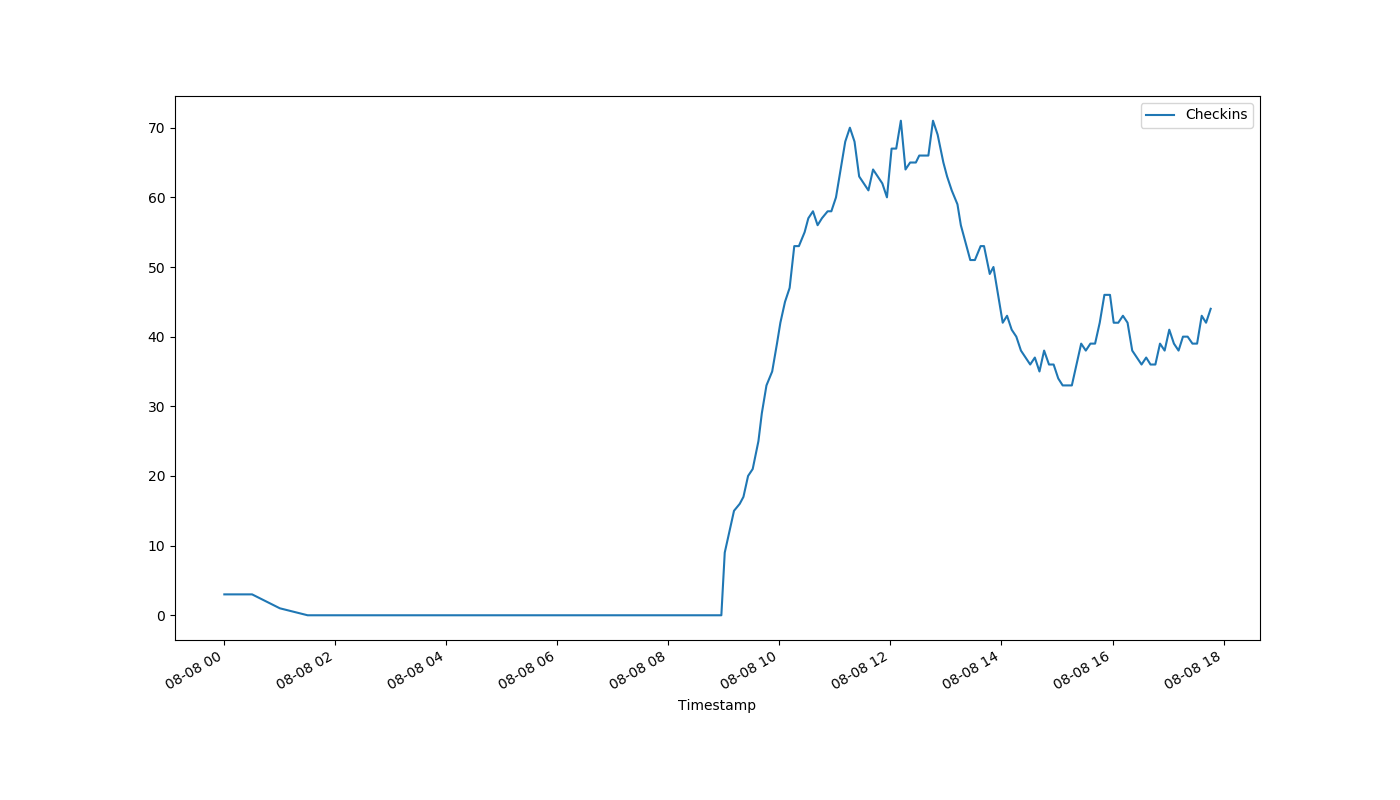
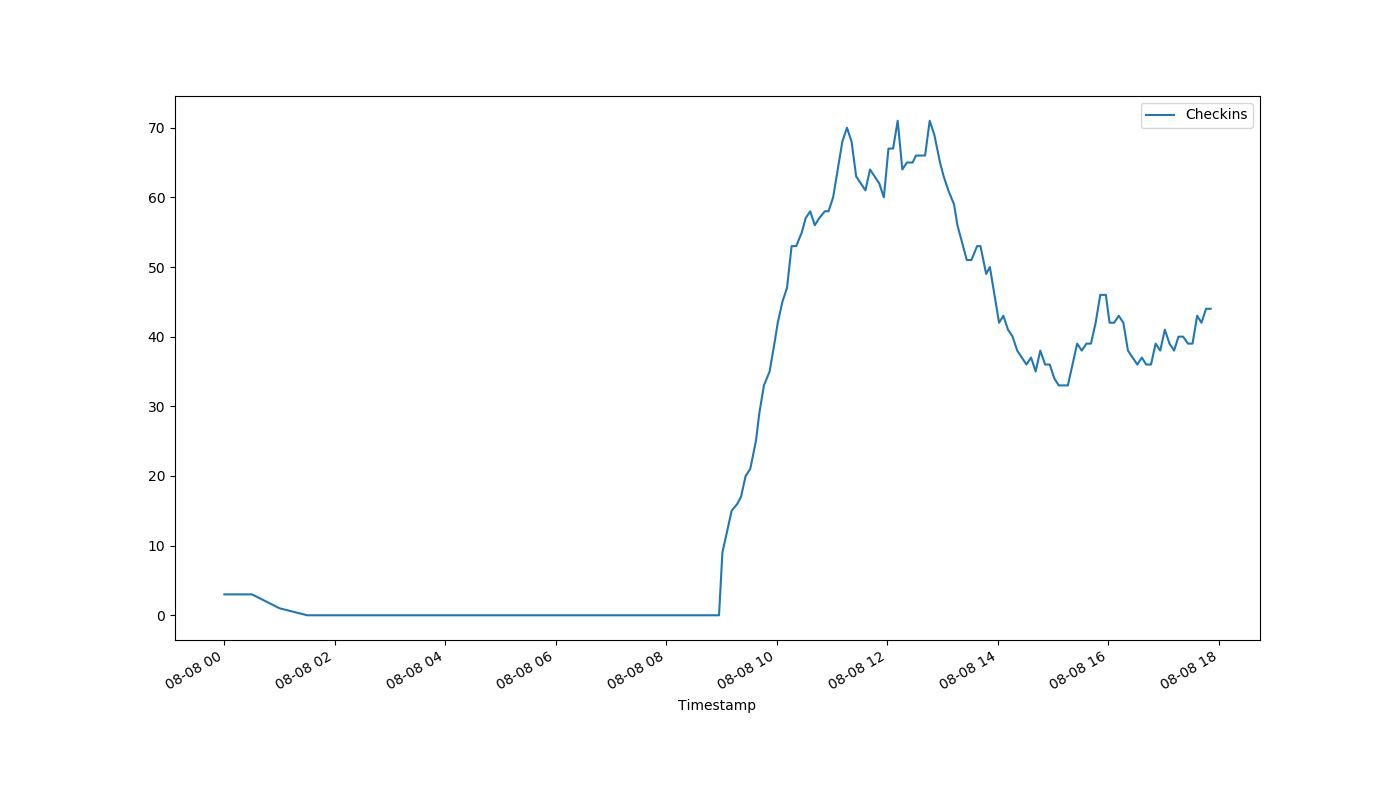
auto-Aug-08-17:52:42

diff --git a/index.html b/index.html
@@ -1,1 +1,1 @@
-<!DOCTYPE html><html><head><meta http-equiv="refresh" content="30"><link rel='stylesheet' href='holmcurrent.css'></head><body><p id='count'>44</p><div id='graph-wrap'><img id='graph' src='holmgraph-Aug-08.png'></div><p id='updated'>Last updated 17:46:03 / 17:46:00</p></body></html>
+<!DOCTYPE html><html><head><meta http-equiv="refresh" content="30"><link rel='stylesheet' href='holmcurrent.css'></head><body><p id='count'>44</p><div id='graph-wrap'><img id='graph' src='holmgraph-Aug-08.png'></div><p id='updated'>Last updated 17:52:04 / 17:51:01</p></body></html>
